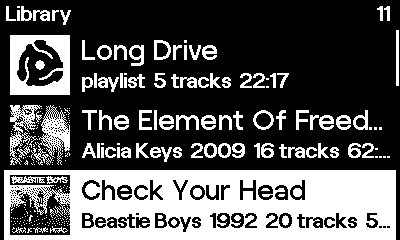
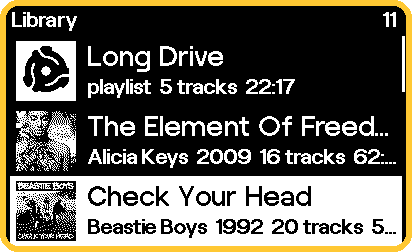
Make Spirograph crank driven, rename one visualizer, frame the screenshots
Spirograph now moves only when you turn the crank, and winding back retracts the
line you just drew. It previously advanced on its own with the crank as a boost,
and used the absolute value of the crank movement, so turning back sped it up
rather than reversing it.

Reversibility forced the interesting change. The figure was a trail of points
collected one per frame, and a trail is history: you can stop adding to it but
you cannot un-draw it. It is now recomputed from the pen position every frame, so
the whole curve is a pure function of one number and winding back is simply a
smaller number. That came out cheaper than what it replaced, about 325 points
against the 700 the trail held.

Amplitude comes from each point's own distance along the curve rather than from a
clock, so the inward spiral is part of the shape rather than something happening
to it, and it survives being wound backwards.

It starts about a third drawn rather than empty. Starting at nothing is the
honest reading of "only moves when you crank" and it is the wrong thing to do:
you get a blank screen with no indication it is waiting for you rather than
broken. Winding all the way back is still available, still clears it, and is the
one moment the shape can change without a line already on screen morphing under
you.

Screened Porch is now Garden o' Sound.

The README screenshots get a thick yellow rounded border, baked into the images
because GitHub strips style attributes from README HTML. The corners are
[…]

diff --git a/DESIGN.md b/DESIGN.md
@@ -347,10 +347,10 @@ The first batch:
 | Visualizer | What it does |
 |---|---|
 | Haring, a Chladni figure | The nodal patterns of a vibrating plate, traced as an interpolated contour rather than filled cells. Mode numbers follow the spectrum continuously with a slow drift on top. Line width comes from the local steepness of the plate, so the figure swells where nodal lines converge, between 10 and 34 pixels, with loudness widening the whole thing |
-| Spirograph, a harmonograph | Two damped pendulums tracing a curve. Frequencies come from spectral peaks and the drawing restarts on a beat |
+| Spirograph, a harmonograph | Two damped pendulums tracing a curve, frequencies taken from spectral peaks. The only one driven entirely by the crank: the pen goes as far as you wind it and winding back retracts the line, which needs the figure to be a pure function of pen position rather than a trail of collected points, because a trail is history and history cannot be wound backwards |
 | Triforce, a cellular automaton | Rule 30 or 110 scrolling upward, each new row seeded by the current spectrum. Pure 1-bit with no dithering needed |
 | Koi, a boids flock | The crank steers an attractor the flock chases. Bass tightens cohesion, treble increases separation, beats scatter the flock |
-| Screened Porch, a moire | Two line grids overlaid, one rotated by the crank, spacing driven by the bands. The cheapest to draw and the most native to a 1-bit screen |
+| Garden o' Sound, a moire | Two line grids overlaid, one rotated by the crank, spacing driven by the bands. The cheapest to draw and the most native to a 1-bit screen |
 | Slime, a physarum colony | Physarum agents laying pheromone trails toward a food source the crank moves |
 | Spectrum, and Maigasa which is the same bands around a circle | The readable ones, for when the others are being decorative |
 

diff --git a/README.md b/README.md
@@ -57,8 +57,8 @@ and find where the quiet intro ends without hunting for it.
 **Gapless transitions.** The next track is prepared ten seconds early on a muted
 channel and swapped in at the boundary.
 
-**Eight visualizers**, full screen. All but one do something with the crank, so
-it becomes part of the picture rather than staying a control.
+**Eight visualizers**, seven of which you can play with. The crank steers a
+flock and winds a drawing machine.
 
 **Playlists**, written as `.m3u` files on your Mac. They are pointers at tracks
 already in the library rather than second copies of them.
